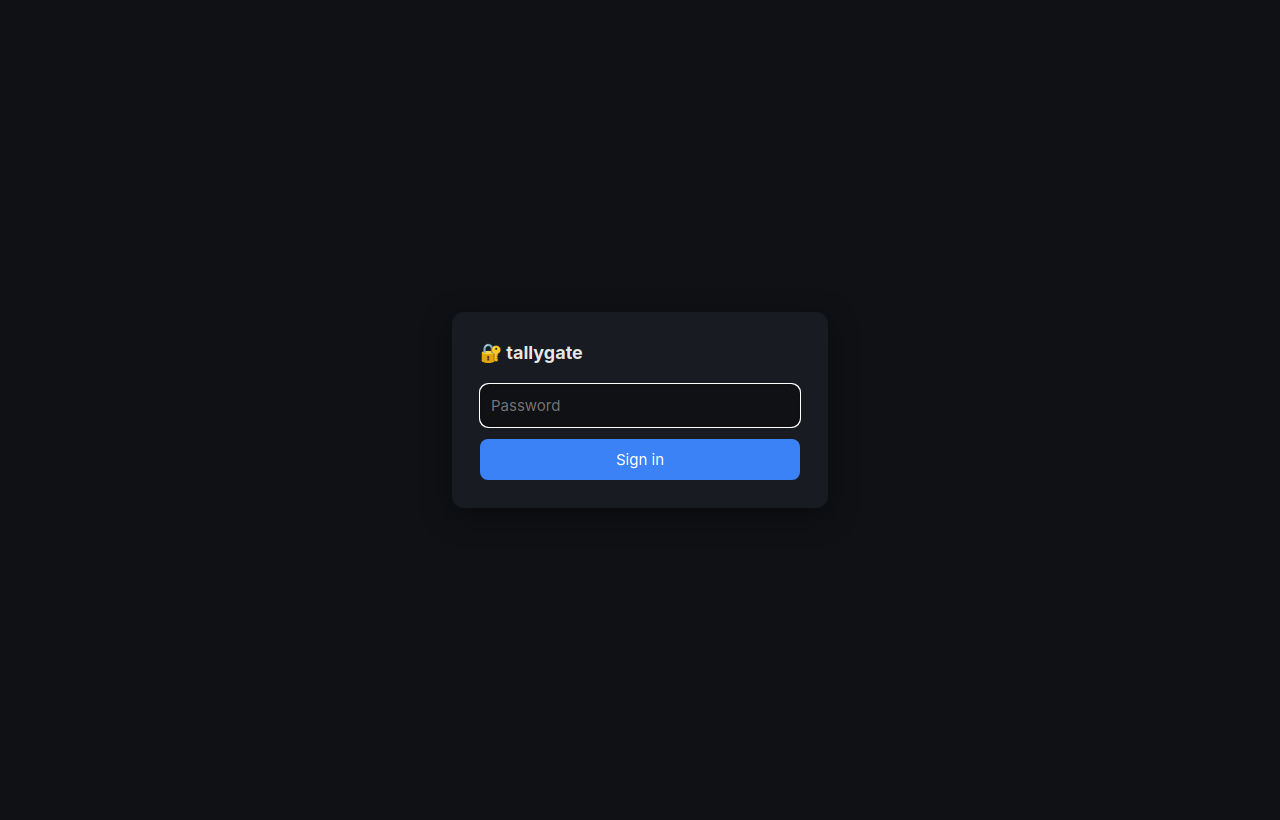
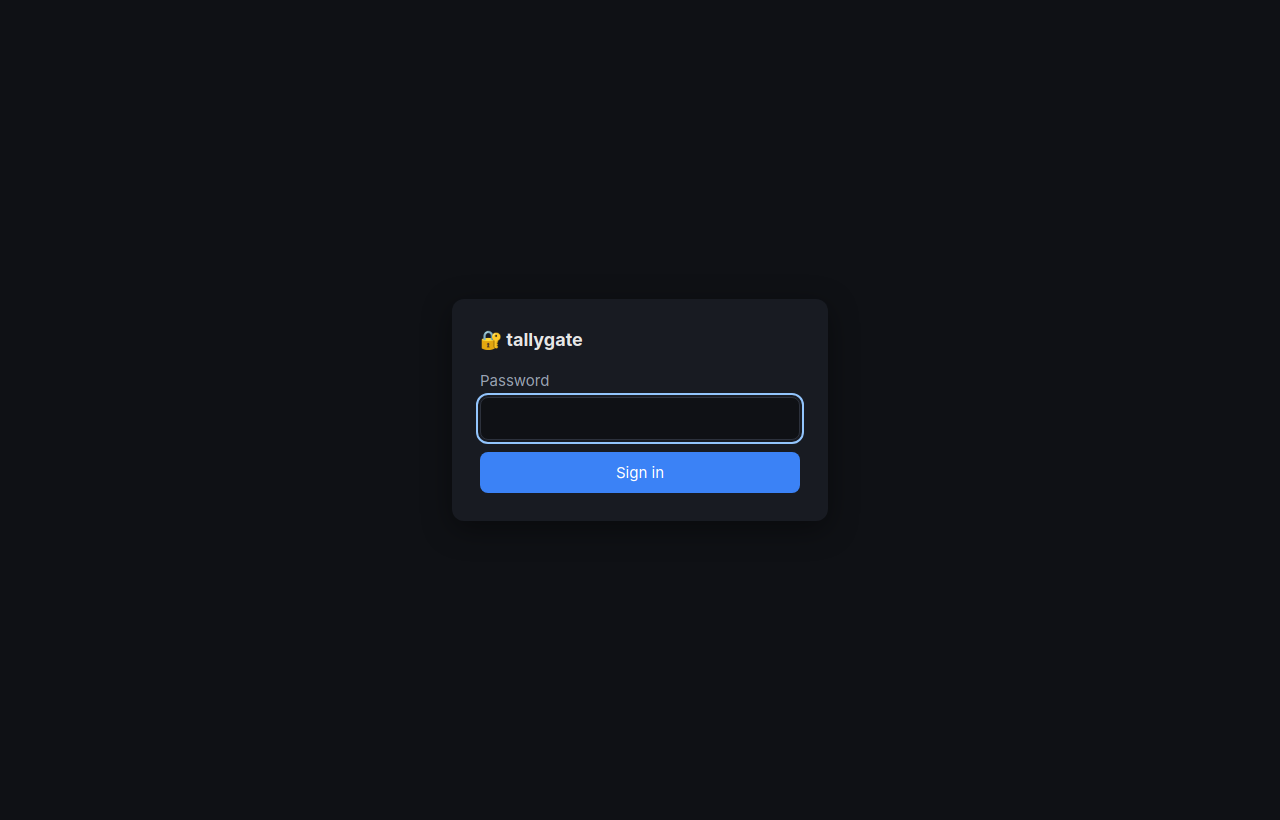
docs: 0.4.0 documentation, upgrade notes and screenshots (#66)
- CHANGELOG: one section per kind, consistent references, complete upgrade notes
  from 0.3.0 (stop first because the networks changed, ./state and TALLYGATE_DIR,
  TRUST_FORWARDED_FOR, CONTROL_PASSWORD_HASH vs app.passwd, behaviour changes)
- operations: restored the "Backup and restore" heading, upgrade note on recreating
  networks, migration without chown inside the capability-less agent
- quick start downloads compose.yaml and bypass.sh from the latest release
- compose passes CONTROL_PASSWORD; an empty CLAUDE_VERSION fails the agent build
  instead of installing an unpinned Claude Code
- CI tests run on Python 3.15 like the images; contributor docs name `make coverage`
- api.md lists every route the control plane relays
- template cards wrap long host names
- the absolute-expiry test measures from login (flaky on slow runners)
- all screenshots retaken with neutral demo data (grants, quick actions, console)

Changed region(s): [[0.375, 0.3963, 0.625, 0.6098]]

diff --git a/control/app/static/style.css b/control/app/static/style.css
@@ -63,6 +63,6 @@ label.inline{display:flex;gap:6px;align-items:center;margin:0;flex:1;min-width:1
 .sr-only{position:absolute;width:1px;height:1px;padding:0;margin:-1px;overflow:hidden;clip:rect(0,0,0,0);white-space:nowrap;border:0}
 button:focus-visible,input:focus-visible,select:focus-visible,textarea:focus-visible,summary:focus-visible{outline:2px solid #93c5fd;outline-offset:2px}
 @media(max-width:600px){main{padding:10px}.portw,.port{width:100%}.target-row .t-address,.inject-row .i-host,.inject-row .i-header{width:100%}pre{word-break:break-word}code{word-break:break-all}}
-.templates{display:grid;grid-template-columns:repeat(auto-fill,minmax(260px,1fr));gap:10px}.tpl{border:1px solid var(--line);border-radius:8px;padding:10px}.tpl code{font-size:11px}#quick button[aria-pressed=true]{outline:2px solid var(--blue)}#qaActive .row{margin:4px 0}
+.templates{display:grid;grid-template-columns:repeat(auto-fill,minmax(260px,1fr));gap:10px}.tpl{border:1px solid var(--line);border-radius:8px;padding:10px}.tpl code{font-size:11px;overflow-wrap:anywhere}#quick button[aria-pressed=true]{outline:2px solid var(--blue)}#qaActive .row{margin:4px 0}
 details.help{margin:6px 0 10px;font-size:13px;color:var(--muted)}details.help summary{cursor:pointer;color:var(--blue)}details.help ul{margin:6px 0;padding-left:18px}details.help li{margin:3px 0}details.help a{color:var(--blue)}.fieldhelp{display:grid;grid-template-columns:max-content 1fr;gap:3px 10px;font-size:12px;color:var(--muted);margin:8px 0}.fieldhelp dt{font-weight:600}.fieldhelp dd{margin:0}label small{display:block;color:var(--muted);font-size:11px;margin-top:2px}
 button.armed{outline:2px solid var(--amber);outline-offset:2px}.confirm-q{color:var(--amber);font-size:12px;flex-basis:100%}

diff --git a/tests/e2e/test_control_auth.py b/tests/e2e/test_control_auth.py
@@ -58,12 +58,13 @@ def test_idle_expiry_and_activity_keeps_the_session(control_with):
 
 
 def test_absolute_expiry_despite_activity(control_with):
-    a, _ = login(control_with(SESSION_TTL="3", SESSION_IDLE="3600"))
-    t0 = time.time()
-    while time.time() - t0 < 2.5:
+    ctl = control_with(SESSION_TTL="6", SESSION_IDLE="3600")
+    t0 = time.time()  # the absolute lifetime starts at login; the (slow, scrypt) login itself counts
+    a, _ = login(ctl)
+    while time.time() - t0 < 4:  # stay well inside the 6 s, also on slow CI runners
         assert a.call("GET", "/api/meta")[0] == 200
         time.sleep(0.5)
-    time.sleep(1.5)
+    time.sleep(max(0.0, t0 + 7 - time.time()))  # 1 s past the lifetime
     assert a.call("GET", "/api/meta")[0] == 401
 
 

diff --git a/CHANGELOG.md b/CHANGELOG.md
@@ -6,171 +6,124 @@ All notable changes to this project are documented here. The format follows
 
 ## [Unreleased]
 
-### Fixed
-- CI: the image scan used an invalid image reference and failed on every push to `main`; release notes named
-  `:vX.Y.Z` tags that don't exist; manual runs on other branches pushed images; the Claude Code workflow
-  opens an issue when Actions may not create pull requests (#64).
+The result of a full project review: Docker Compose with published images as the main installation, a large
+set of security fixes from two review rounds, quick actions and templates, help everywhere, and a 95 %
+coverage gate. Read [Upgrading from 0.3.0](#upgrading-from-030) before you update.
 
 ### Security
-- The gateway fails closed: an error inside a hook (e.g. the event log cannot be written) refuses the
-  connection instead of letting it through. An invalid `hard_deny_floor` entry stops the gateway at
-  startup, and until a failed startup has exited every connection is refused (it used to be proxied
-  without the policy for a moment) ([#8](https://github.com/PhilippMundhenk/tallygate/issues/8)).
-- TLS to injection and read-only hosts is always intercepted. A missing, trailing-dot or different SNI
-  used to pass it through untouched, skipping credential stripping and the read-only check
-  ([#9](https://github.com/PhilippMundhenk/tallygate/issues/9)).
-- CIDR `allow`/`ask` rules, including those created by approving an IP literal, apply only to IP-literal
-  destinations. They made the name phase inconclusive, so unknown names were resolved before the decision
-  (TG-02 regression). **Behaviour change:** names resolving into an allowed CIDR are no longer allowed by
-  it; use host rules ([#10](https://github.com/PhilippMundhenk/tallygate/issues/10)).
-- `hard_deny_floor` now extends the built-in hard-deny list instead of replacing it; adding a VPS address
-  silently dropped RFC 1918, loopback and metadata ranges. Extras from the API are compared with the floor
-  in force ([#11](https://github.com/PhilippMundhenk/tallygate/issues/11)).
-- Grants defined in the UI or API can no longer use `inject` or `tls_verify: false` (config-file grants
-  only): a UI session could send stored secrets to any host. Such UI grants saved earlier are ignored at
-  startup ([#12](https://github.com/PhilippMundhenk/tallygate/issues/12)).
-- Rules reject null or non-integer ports (they matched every port; the UI produced them from typos such as
-  `443,` or `https`), and IPv4-mapped IPv6 literals are matched like IPv4 by rules and approvals
-  ([#13](https://github.com/PhilippMundhenk/tallygate/issues/13)).
-- Grant enforcement: plain HTTP to an `https` grant target is refused instead of skipping the per-request
-  checks; LAN grants also work while a rule (e.g. the `open` preset) allows the name; re-approving a grant
-  keeps its id, so open connections survive; agent credentials are stripped on inject hosts reached
-  through a grant ([#14](https://github.com/PhilippMundhenk/tallygate/issues/14)).
+- **Host services:** the agent could reach services on the Docker host that listen on all interfaces through
+  the host's address on `agent-net`, bypassing the gateway. `agent-net` and `control-net` no longer give the
+  host an address (`com.docker.network.bridge.inhibit_ipv4`); `bypass.sh` checks it with a real listener (#7).
+- **Fail closed:** an error inside a gateway hook (for example when the event log cannot be written) refuses
+  the connection instead of letting it through. An invalid `hard_deny_floor` entry stops the gateway at
+  startup, and until a failed startup has exited every connection is refused (#8).
+- **Credential stripping and read-only hosts:** TLS to injection and read-only hosts is always intercepted.
+  A missing, trailing-dot or different SNI used to pass it through untouched (#9).
+- **Domain fronting:** TLS is passed through only when the SNI matches the checked name (a missing SNI is
+  refused; for an IP literal an SNI name must be allowed by the rules), and HTTP requests whose `Host` is not
+  the checked target get `403`. On shared CDNs an allowed name used to reach other sites (#57).
+- **Large bodies:** request bodies over 1 MB were streamed upstream before the per-request checks ran. The
+  checks now run on the headers, before anything is forwarded (#56).
+- **DNS before the decision:** CIDR `allow`/`ask` rules, including those from approving an IP, apply only to
+  IP-literal destinations; they used to make the gateway resolve unknown names before asking (TG-02
+  regression) (#10).
+- **Hard deny:** `hard_deny_floor` extends the built-in list instead of replacing it (#11).
+- **Secrets:** grants defined in the UI or API can no longer use `inject` or `tls_verify: false`; a UI
+  session could send stored secrets to any host (#12).
+- **Rule validation:** null or non-integer ports are refused (they matched every port), and IPv4-mapped IPv6
+  addresses match like IPv4 (#13).
+- **Grants:** plain HTTP to an `https` grant target is refused; LAN grants work while a rule allows the name;
+  re-approving keeps open connections; agent credentials are stripped on inject hosts reached through a
+  grant (#14).
+- **Publishing:** the npm, Yarn, crates.io, container registry and Hugging Face hosts are read-only by default.
+  `readonly` entries can also refuse POST (`post_is_write`, with `read_posts` exceptions) and take `*.domain`
+  patterns (#58).
+- **Reverse proxy:** `TRUST_FORWARDED_FOR` defaults to `0`; the docs explain that the `mgmt` bridge address is
+  shared by every process on the host; new optional `TRUST_PROXY_SECRET` (#19).
+- **Login:** bodies over 4 KiB are refused unread, more than 5 queued password checks get `429`, and the
+  failure limit is checked inside the password lock (#20).
+- **Sessions:** the event stream and the console end within 10 s of logout or expiry (#21). Changing the UI
+  password ends every session opened with the old one (#62). A `CONTROL_PASSWORD_HASH` that is not an scrypt
+  hash refuses every login instead of falling back to `CONTROL_PASSWORD` (#27).
+- **Policy writes:** the mode buttons and the emergency stop no longer send the browser's possibly stale
+  policy back, which could restore deleted rules. `PATCH /policy` changes only the mode; `POST
+  /emergency-stop` runs on the gateway: it revokes grants, denies pending requests, removes the internet
+  shortcuts and sets mode `deny`, and it suspends grant auto-approval until the mode changes (#60).
+- CI: actions pinned to commit SHAs, base images by digest, gitleaks secret scan, Trivy image scan (#18).
+
 ### Added
-- `python -m app.passwd --print-hash` prints a hash for `CONTROL_PASSWORD_HASH` without a checkout and writes nothing (#62).
-- Line-coverage gate of 95 % per module in CI (`make coverage`), measuring the gateway and control
-  processes too; every module is now at 98-100 % (424 tests) (#27).
-- **Help and examples**: `docs/rules.md` (how a connection is decided, ~20 worked examples), an example for
-  every setting in the configuration reference and in `config/gateway.yaml`; in the UI, field help for rules
-  and grants, expandable explanations with examples, *Test a destination* explains which rule or check
-  decided, and host/CIDR typos are refused with a valid example (#35).
-- **Quick actions** in the Rules tab: allow the web or all ports for 15 min / 1 h, switch what happens with
-  unknown destinations, an emergency stop, a guided path to a local-network grant, and **templates** for
-  Python, Node.js, Go, Rust, Debian/Ubuntu apt, container registries and Hugging Face. Preset rules are
-  tagged `preset:<name>`; `DELETE /presets/<name>` undoes them; `GET /presets?details=1` (#34).
-- **Docker Compose with prebuilt images is the recommended installation.** Multi-arch images
-  (`linux/amd64`, `linux/arm64`) `ghcr.io/philippmundhenk/tallygate-{gateway,control,agent}` are published
-  from `main` and for every release; releases attach `compose.yaml`, `.env.example`, `gateway.yaml` and
-  `bypass.sh`.
-- Zero-config first start: the gateway API token, session secret and console credential are created in
-  volumes, and a UI password is generated and printed once to the control log. Environment variables still
-  take precedence. `docker compose exec control python -m app.passwd` changes the stored password.
-- `compose.build.yaml` to build the images from a checkout (`make up`).
-- A weekly workflow opens a PR when a new Claude Code version is published; `agent/Dockerfile` is the
-  single place that pins the version (#17).
-- `AGENT_CPUS` to limit the agent's CPU (default: no limit), and a resource-limits section in the
-  operations guide on keeping the workspace from filling the host disk (#25).
-- Health check for the agent; services start in order of health (`depends_on: condition: service_healthy`).
+- **Docker Compose with published images** is the recommended installation. Multi-arch images
+  `ghcr.io/philippmundhenk/tallygate-{gateway,control,agent}` (`linux/amd64`, `linux/arm64`) are published
+  from `main` (`:main`) and for every release (`:X.Y.Z`, `:X.Y`, `:latest`). Releases attach `compose.yaml`,
+  `.env.example`, `gateway.yaml` and `bypass.sh` (#16).
+- **Zero-config first start:** the gateway API token, session secret and console credential are created in
+  volumes, and a UI password is generated and printed to the control log. Environment variables still take
+  precedence. `python -m app.passwd` changes the password; `--print-hash` prints a hash for
+  `CONTROL_PASSWORD_HASH` (#16, #62).
+- **Quick actions** in the Rules tab: allow the web or all ports for a while, choose what happens with unknown
+  destinations, an emergency stop, a guided path to a local-network grant, and **templates** for Python,
+  Node.js, Go, Rust, Debian/Ubuntu apt, container registries and Hugging Face (#34, #59, #61).
+- **Help and examples:** [docs/rules.md](docs/rules.md) with about 20 worked examples, an example for every
+  setting, field help and explanations in the UI, *Test a destination* says what decided (#35).
+- `compose.build.yaml` to build the images from a checkout (`make up`) (#16).
+- Health check for the agent; services start in order of health (#16).
+- `AGENT_CPUS` and a guide to keeping the workspace from filling the host disk (#25).
+- A weekly workflow that proposes new Claude Code versions (#17).
+- `make coverage`: a gate of 95 % line coverage per module, including the gateway and control processes; every
+  module is at 98–100 % (#27).
 
 ### Changed
-- CI: actions pinned to commit SHAs, base images pinned by digest, Dependabot groups minor/patch
-  updates, gitleaks secret scan on every PR and weekly, Trivy scan of the published images, image
-  build tested on pull requests, ttyd and tool versions pinned in one place (#18).
-- Gateway and control images on Python 3.15 (was 3.13); actions/checkout and actions/setup-python v7;
-  ruff 0.17.4 (also in pre-commit), pytest 9.2.0.
 - State lives in Docker volumes by default. `TALLYGATE_DIR` is replaced by `GATEWAY_DATA`, `AGENT_HOME` and
-  `WORKSPACE` (each a volume name or a host path); `./setup.sh /path` sets them up for host directories.
-- The default `config/gateway.yaml` is built into the gateway image; mount your own file to change it.
-- `setup.sh` runs as your normal user (sudo only for `chown`) and no longer generates secrets.
-- `TRUST_FORWARDED_FOR` defaults to `0`; docs explain that the `mgmt` bridge address is shared by every
-  process on the host.
+  `WORKSPACE`, which take a host path instead of the volume; `./setup.sh /path` prepares host directories (#16).
+- The default `config/gateway.yaml` is built into the gateway image; mount your own file to change it (#16).
+- `setup.sh` runs as your normal user and no longer generates secrets (#16).
+- **Behaviour:** a CIDR `allow` rule no longer allows host names that resolve into it; use host rules (#10).
+- Template rule ids are `<preset>:<id>`; applying a preset never takes over a rule from another source (`409`),
+  and `policy` presets cannot be applied on top (#59).
+- Gateway and control images on Python 3.15; `agent/Dockerfile` is the single place that pins Claude Code
+  (#17, #18).
 
 ### Fixed
-- `bypass.sh` works when downloaded next to `compose.yaml` (it no longer changes directory and runs the
-  self-test with `docker exec`); the meaningless IPv6 link-local probe is gone (the sysctl checks remain) (#65).
-- Undoing a template could delete rules it never added (`lockdown` shares ids with the baseline, so undoing it
-  removed the Anthropic rules). Template rule ids are now `<preset>:<id>`, rules from another source are never
-  taken over (`409`), and `POST` refuses `policy` presets. "Apply again" with a time limit now limits the
-  template's own earlier rules, and the UI shows the expiry the gateway set. Templates: GHCR and Docker Hub
-  blob hosts, `repo.yarnpkg.com` for corepack, a correct Go note; the docs say that
-  template rules win over your own rules while active (#59).
-- Notifications: Matrix reactions are seeded in the background, so a slow homeserver no longer delays the next prompt on any channel; prompts for asks and grant requests that already expired are skipped; shutdown waits for cancelled tasks before closing their HTTP session (#63).
-- Quick actions: policy events no longer rebuild the template cards, so a chosen duration and the focus survive; focus moves to *Apply* after *Undo*; buttons are named after their template; `confirm()` dialogs (silently skipped when the browser suppresses them) are replaced by an in-page two-step confirmation (#61).
-- Mode buttons, the mode *Save* and the emergency stop no longer send the browser's (possibly stale) policy back: `PATCH /policy` changes only the mode and timeout, `POST /emergency-stop` runs on the gateway (revoke grants, deny pending asks and grant requests, remove internet presets, mode deny; best effort, result per step) and suspends grant auto-approval until the mode changes; full replaces start from a fresh copy (#60).
-- The gateway's warnings never reached its log: mitmdump ran with `-q`, which overrides the log level (#27).
-- Agent status responses larger than one network read were cut off and reported as an error (#27).
-- The managed setting `skipDangerousModePermissionPrompt` was nested under `permissions`, where Claude Code
-  ignores it; it is now a top-level key, so the bypass-mode confirmation no longer appears (#26).
+- Undoing a template could delete rules it never added; "Apply again" with a time limit kept the template
+  permanent; template host lists completed (GHCR and Docker Hub blob hosts, `repo.yarnpkg.com`) (#59).
+- The managed setting that skips the bypass-mode prompt had no effect (#26).
+- The gateway's warnings never reached its log (#27). Agent status responses over one network read were cut
+  off (#27).
+- Web UI: log history, reconnects, unsaved edits, the console (UTF-8, large pastes, expired sessions), cards
+  moving under the cursor, links from chat messages, error messages (#23); accessibility and phone layout
+  (#24); quick-action selections and focus, in-page confirmations instead of `confirm()` (#61).
+- Notifications: channels fail independently, a queue decouples delivery, a slow homeserver no longer delays
+  other prompts, expired prompts are skipped (#22, #63).
+- Gateway robustness: event counts, preset time limits, `fsync` before renames, connection state (#15).
+- `bypass.sh` works when downloaded next to `compose.yaml` (#65).
+- CI: the image scan, release notes and pushes from other branches (#64).
 
 ### Removed
-- `gateway/config.example.yaml` (a stale duplicate of `config/gateway.yaml`).
-
-### Security
-- A `CONTROL_PASSWORD_HASH` that is not an scrypt hash refuses every login instead of falling back to
-  `CONTROL_PASSWORD` (#27).
-
-- Request bodies over 1 MB were streamed upstream before the per-request checks ran, so a large `PUT` to a
-  read-only host, the agent's own credentials on an injection host, or a write on a read-only grant went
-  through. The checks now run on the request headers, before anything is forwarded (#56).
-- Domain fronting: the TLS SNI and the HTTP `Host` were not compared with the checked name, so on a shared
-  CDN an allowed name gave access to other sites. TLS is now passed through only when the SNI matches the
-  CONNECT name (a missing SNI is refused; for an IP literal an SNI name must be allowed by the rules), and
-  HTTP requests with another `Host` get `403` (#57).
-- The templates opened publish paths around `readonly`: Yarn, crates.io, the container registries and
-  Hugging Face were writable. They are now read-only by default; `readonly` entries can refuse POST as
-  well (`post_is_write`, with `read_posts` exceptions) and take `*.domain` patterns. The container template
-  is called "pull only" (#58).
-- Changing the UI password (`python -m app.passwd`) ends every session opened with the old one: sessions remember a fingerprint of the password in effect at login. The first-start log no longer claims the password is "shown only once"; it stays in the log until rotated (#62).
-- The agent could reach services on the Docker host that listen on all interfaces through the host's
-  address on `agent-net` (`172.31.10.1`), bypassing the gateway. `agent-net` and `control-net` no longer
-  give the host an address (`com.docker.network.bridge.inhibit_ipv4`), and `bypass.sh` checks it with a
-  listener on the host (#7).
-- `TRUST_PROXY_SECRET`: forwarded and auth headers are believed only when the proxy also sends the
-  shared secret in `X-Tallygate-Proxy-Secret`. The docs describe the safe proxy-auth setup (proxy container
-  on `mgmt` with a fixed address, nothing else published) (#19).
-- Login flood: bodies over 4 KiB are refused unread (413), more than 5 queued password checks get 429 at once,
-  and the per-address failure limit is re-checked and recorded inside the password lock (#20).
-- The event stream and the web console end within 10 s of logout or session expiry, and console input is
-  checked before it reaches the agent (#21).
-### Fixed
-- e2e tests skip instead of erroring without aiohttp, and cover password hash formats, idle and absolute
-  session expiry, dropped console frames, grant deny and revoke through Telegram and Matrix (#27).
-### Fixed
-- Web UI (#23):
-  - Log tab: history loads even after live events arrived; "Load older" no longer duplicates rows.
-  - After an event-stream reconnect, pending asks and grant requests from the gap are reloaded; a stream
-    closed by an ended session leads to the login page.
-  - Rules tab: a policy change elsewhere no longer overwrites unsaved edits (the field is marked instead).
-  - Console: UTF-8 split across frames is no longer garbled; pastes over 64 KiB no longer kill the console;
-    reconnecting after the session ended shows "session expired" instead of looping.
-  - Approval and grant cards do not move under the cursor when another one goes away, and their buttons are
-    disabled while a decision is sent.
-  - The session cookie is `SameSite=Lax`, so links in Telegram/Matrix messages arrive logged in.
-  - Invalid JSON, non-JSON gateway replies and an unreachable GitHub return `{"error": …}` with 400/502.
-- Accessibility and mobile layout (#24): tables scroll inside their own container, rows wrap on phones, tabs
-  are ARIA tabs (arrow keys work), the toast is a live region, the connection state is shown in words, and
-  every input has a label. Browser notifications are enabled with a button in Setup (browsers ignore a
-  permission request without a user gesture).
-- Notifications: Telegram and Matrix are sent concurrently and fail independently, so an outage of one no
-  longer hides prompts on the other. A queue decouples delivery from the gateway event stream, and chat API
-  calls time out after 15 s (#22).
-### Security
-- The event stream and the web console end within 10 s of logout or session expiry, and console input is
-  checked before it reaches the agent (#21).
-- Login flood: bodies over 4 KiB are refused unread (413), more than 5 queued password checks get 429 at once,
-  and the per-address failure limit is re-checked and recorded inside the password lock (#20).
-- `TRUST_PROXY_SECRET`: forwarded and auth headers are believed only when the proxy also sends the
-  shared secret in `X-Tallygate-Proxy-Secret`. The docs describe the safe proxy-auth setup (proxy container
-  on `mgmt` with a fixed address, nothing else published) (#19).
-- The agent could reach services on the Docker host that listen on all interfaces through the host's
-  address on `agent-net` (`172.31.10.1`), bypassing the gateway. `agent-net` and `control-net` no longer
-  give the host an address (`com.docker.network.bridge.inhibit_ipv4`), and `bypass.sh` checks it with a
-  listener on the host (#7).
+- `gateway/config.example.yaml`, a stale duplicate of `config/gateway.yaml` (#16).
 
 ### Upgrading from 0.3.0
-Keep your existing state: in `.env`, replace `TALLYGATE_DIR=/your/dir` with
-`GATEWAY_DATA=/your/dir/gateway`, `AGENT_HOME=/your/dir/agent-home`, `WORKSPACE=/your/dir/workspace`. Your
-secrets in `.env` keep working. If you changed `config/gateway.yaml`, mount it as described in
-[docs/operations.md](docs/operations.md#with-docker-compose-recommended). Then `make up`, or switch to the
-published images with `docker compose pull && docker compose up -d`.
-Recreate the networks so the new network option takes effect: `docker compose down && docker compose up -d`
-(compose warns that the network configuration changed).
 
-### Fixed
-- Gateway robustness: "repeated N×" counts are no longer lost when a new event replaces an unflushed one;
-  re-applying a preset with a TTL keeps its permanent rules permanent; policy, UI grants and secrets are
-  fsynced before the atomic rename; per-connection state is released when an upstream connect fails
-  ([#15](https://github.com/PhilippMundhenk/tallygate/issues/15)).
+1. **Stop the stack first**: `docker compose down`. The internal networks changed (#7). A plain `up -d` keeps
+   the running containers on the wrong addresses, and the gateway then fails to start.
+2. **Keep your state.** 0.4.0 uses Docker volumes by default. If your state is in host directories, point the
+   new variables at them in `.env`:
+   - with `TALLYGATE_DIR=/your/dir`: `GATEWAY_DATA=/your/dir/gateway`, `AGENT_HOME=/your/dir/agent-home`,
+     `WORKSPACE=/your/dir/workspace`;
+   - without `TALLYGATE_DIR`, 0.3.0 used `./state` next to `compose.yaml`: `GATEWAY_DATA=./state/gateway`,
+     `AGENT_HOME=./state/agent-home`, `WORKSPACE=./state/workspace`.
+
+   Otherwise you start with empty volumes: no Claude login, no workspace, the default policy.
+3. **Review `.env`.** Your secrets keep working. 0.3.0's `.env` set `TRUST_FORWARDED_FOR=1`; remove it unless
+   you run a reverse proxy and set `TRUSTED_PROXIES` for it. While `CONTROL_PASSWORD_HASH` is set,
+   `python -m app.passwd` refuses to change the password: change the hash in `.env` instead (use
+   `--print-hash`), or remove it to use the stored password.
+4. **Static config:** if you changed `config/gateway.yaml`, mount it as described in
+   [docs/operations.md](docs/operations.md#with-docker-compose-recommended).
+5. **Behaviour changes to check:** CIDR `allow` rules cover IP literals only (#10); UI grants with `inject` or
+   `tls_verify: false` are ignored, so move them to the config file (#12); the Hugging Face and registry
+   hosts are read-only (#58).
+6. Start: `docker compose pull && docker compose up -d`, or `make up` from source. Then run the self-test or
+   `bash bypass.sh`.
 
 ## [0.3.0] - 2026-11-11
 

diff --git a/docs/operations.md b/docs/operations.md
@@ -34,7 +34,7 @@ Prebuilt images for amd64 and arm64 are published on GHCR: `tallygate-gateway`, 
 
 ```bash
 mkdir tallygate && cd tallygate
-curl -fsSLO https://raw.githubusercontent.com/PhilippMundhenk/tallygate/main/compose.yaml
+curl -fsSLO https://github.com/PhilippMundhenk/tallygate/releases/latest/download/compose.yaml
 docker compose up -d
 docker compose logs control | grep -A1 password    # the generated UI password
 ```
@@ -73,7 +73,7 @@ Check the isolation with the UI's **Setup → Self-test**. The authoritative tes
 separate probe container:
 
 ```bash
-curl -fsSLO https://raw.githubusercontent.com/PhilippMundhenk/tallygate/main/tests/integration/bypass.sh
+curl -fsSLO https://github.com/PhilippMundhenk/tallygate/releases/latest/download/bypass.sh
 bash bypass.sh                 # must end with ALL CHECKS PASSED
 ```
 
@@ -262,7 +262,7 @@ docker compose exec control python -m app.passwd --print-hash   # prints scrypt:
 
 | Component | Procedure |
 |---|---|
-| tallygate (Compose) | Read the [CHANGELOG](../CHANGELOG.md) → `docker compose pull && docker compose up -d` → self-test or `bash bypass.sh`. Download the new `compose.yaml` when the changelog says so. |
+| tallygate (Compose) | Read the [CHANGELOG](../CHANGELOG.md), including its *Upgrading* notes → `docker compose pull && docker compose up -d` → self-test or `bash bypass.sh`. Download the new `compose.yaml` when the changelog says so. When the networks changed (as in 0.4.0), run `docker compose down` first: a plain `up -d` keeps the running containers on the wrong addresses. |
 | tallygate (from source) | `git pull` → read `CHANGELOG.md` → `make up` → `make bypass-test`. |
 | Claude Code | Part of the agent image, which has no auto-updater by design. New Claude Code versions arrive as tallygate patch releases: update tallygate. From source, set `CLAUDE_VERSION` in `.env` and run `make up`. |
 | Base images / dependencies | Published images are rebuilt for every release. From source: `docker compose -f compose.yaml -f compose.build.yaml build --pull && make up`. |
@@ -288,6 +288,7 @@ on the host suffer too. On a host that runs more than tallygate:
 
 The gateway's event log is capped by `log_max_events` and `log_keep_days`, and identical events are coalesced.
 
+## Backup and restore
 
 Back up the volumes (or the directories in `GATEWAY_DATA`, `AGENT_HOME`, `WORKSPACE`), plus `.env` and your
 `gateway.yaml` if you have them:
@@ -340,9 +341,10 @@ to a new gateway, the CA changes. That's harmless: the agent re-reads the CA on 
 ## Migrating from another Claude Code container
 
 1. Stop the old container.
-2. Copy skills into the agent home: `docker compose cp <old>/claude-home/skills agent:/home/agent/.claude/`,
-   then `docker compose exec -u 0 agent chown -R 1000:1000 /home/agent/.claude/skills`.
-3. Copy repositories into the workspace the same way (or re-clone).
+2. Copy skills into the agent home with a throwaway container (the agent itself has no capability to change
+   owners): `docker run --rm -v tallygate_agent-home:/h -v "<old>/claude-home/skills":/s:ro debian sh -c
+   'mkdir -p /h/.claude && cp -r /s /h/.claude/skills && chown -R 1000:1000 /h/.claude'`.
+3. Copy repositories into the `tallygate_workspace` volume the same way (or re-clone).
 4. **Log in again** instead of copying credentials, and create a new fine-grained PAT for the gateway.
 5. Revoke tokens that were stored in the old container.
 

diff --git a/docs/api.md b/docs/api.md
@@ -103,7 +103,7 @@ Used by the bundled web UI; documented for scripting and review.
 | GET | `/` | session | Single-page UI |
 | GET | `/api/meta` | session | Current user, terminal names, notification status |
 | GET | `/api/stream` | session | Relayed gateway SSE stream |
-| * | `/api/gw/{path}` | session + CSRF | Relay to an **allowlisted** subset of the gateway API (policy, rules, pending/decide, events, test, presets, secrets, info). For `decide`, `by` is overwritten with `web:<user>`. |
+| * | `/api/gw/{path}` | session + CSRF | Relay to an **allowlisted** subset of the gateway API: `GET`/`PUT`/`PATCH /policy`, `POST /emergency-stop`, `POST /rules`, `DELETE /rules/{id}`, `GET /pending`, `POST /pending/{id}/decide`, `GET /events`, `POST /test`, `GET`/`POST`/`DELETE /presets…`, `GET /secrets`, `PUT /secrets/{name}`, `GET`/`PUT`/`DELETE /grants/{name}`, `POST /grants/{name}/activate`, `DELETE /active-grants/{id}`, `POST /grant-requests/{id}/decide`, `GET /info`. Everything else is refused (404). For decisions and the emergency stop, `by` is set to `web:<user>`. |
 | POST | `/api/github/check` | session + CSRF | `{"token": "...", "store": true}` — validate a token against GitHub from the control plane and store it in the gateway |
 | GET | `/api/agent/status` | session | Agent status (Claude login, git identity, Remote Control running, versions) |
 | GET | `/api/agent/selftest` | session | Run the in-agent isolation self-test |

diff --git a/docs/development.md b/docs/development.md
@@ -46,7 +46,7 @@
 ```bash
 python3 -m venv .venv && . .venv/bin/activate
 make dev-setup
-make lint test
+make lint coverage
 ```
 
 The e2e suite (`tests/e2e`) needs no Docker and no root:
@@ -121,7 +121,8 @@ Measured on 2026-11-11 (424 tests):
 
 ## Releases
 
-1. Update `VERSION`, `pyproject.toml` and `CHANGELOG.md` (date the release section).
+1. Update `VERSION`, `pyproject.toml`, the version badge in `README.md` and `CHANGELOG.md` (date the release
+   section).
 2. Commit, tag `vX.Y.Z`, push the tag.
 3. CI builds and pushes the images (`linux/amd64`, `linux/arm64`) to GHCR as `X.Y.Z`, `X.Y` and `latest`,
    and creates the GitHub release with `compose.yaml`, `.env.example`, `gateway.yaml` and `bypass.sh`

diff --git a/CONTRIBUTING.md b/CONTRIBUTING.md
@@ -7,7 +7,7 @@ Thanks for helping! tallygate is security-sensitive, so changes are reviewed wit
 ```bash
 python3 -m venv .venv && . .venv/bin/activate
 make dev-setup          # gateway + control deps, pytest, ruff, shellcheck
-make lint test          # everything that CI runs except the Docker integration job
+make lint coverage          # everything that CI runs except the Docker integration job
 ```
 
 The e2e suite starts the real gateway (mitmdump) and control plane on localhost with throwaway

diff --git a/README.md b/README.md
@@ -73,7 +73,7 @@ Claude Code. All you need is [`compose.yaml`](compose.yaml):
 
 ```bash
 mkdir tallygate && cd tallygate
-curl -fsSLO https://raw.githubusercontent.com/PhilippMundhenk/tallygate/main/compose.yaml
+curl -fsSLO https://github.com/PhilippMundhenk/tallygate/releases/latest/download/compose.yaml
 docker compose up -d
 docker compose logs control | grep -A1 password    # generated UI password (change it after login)
 ```
